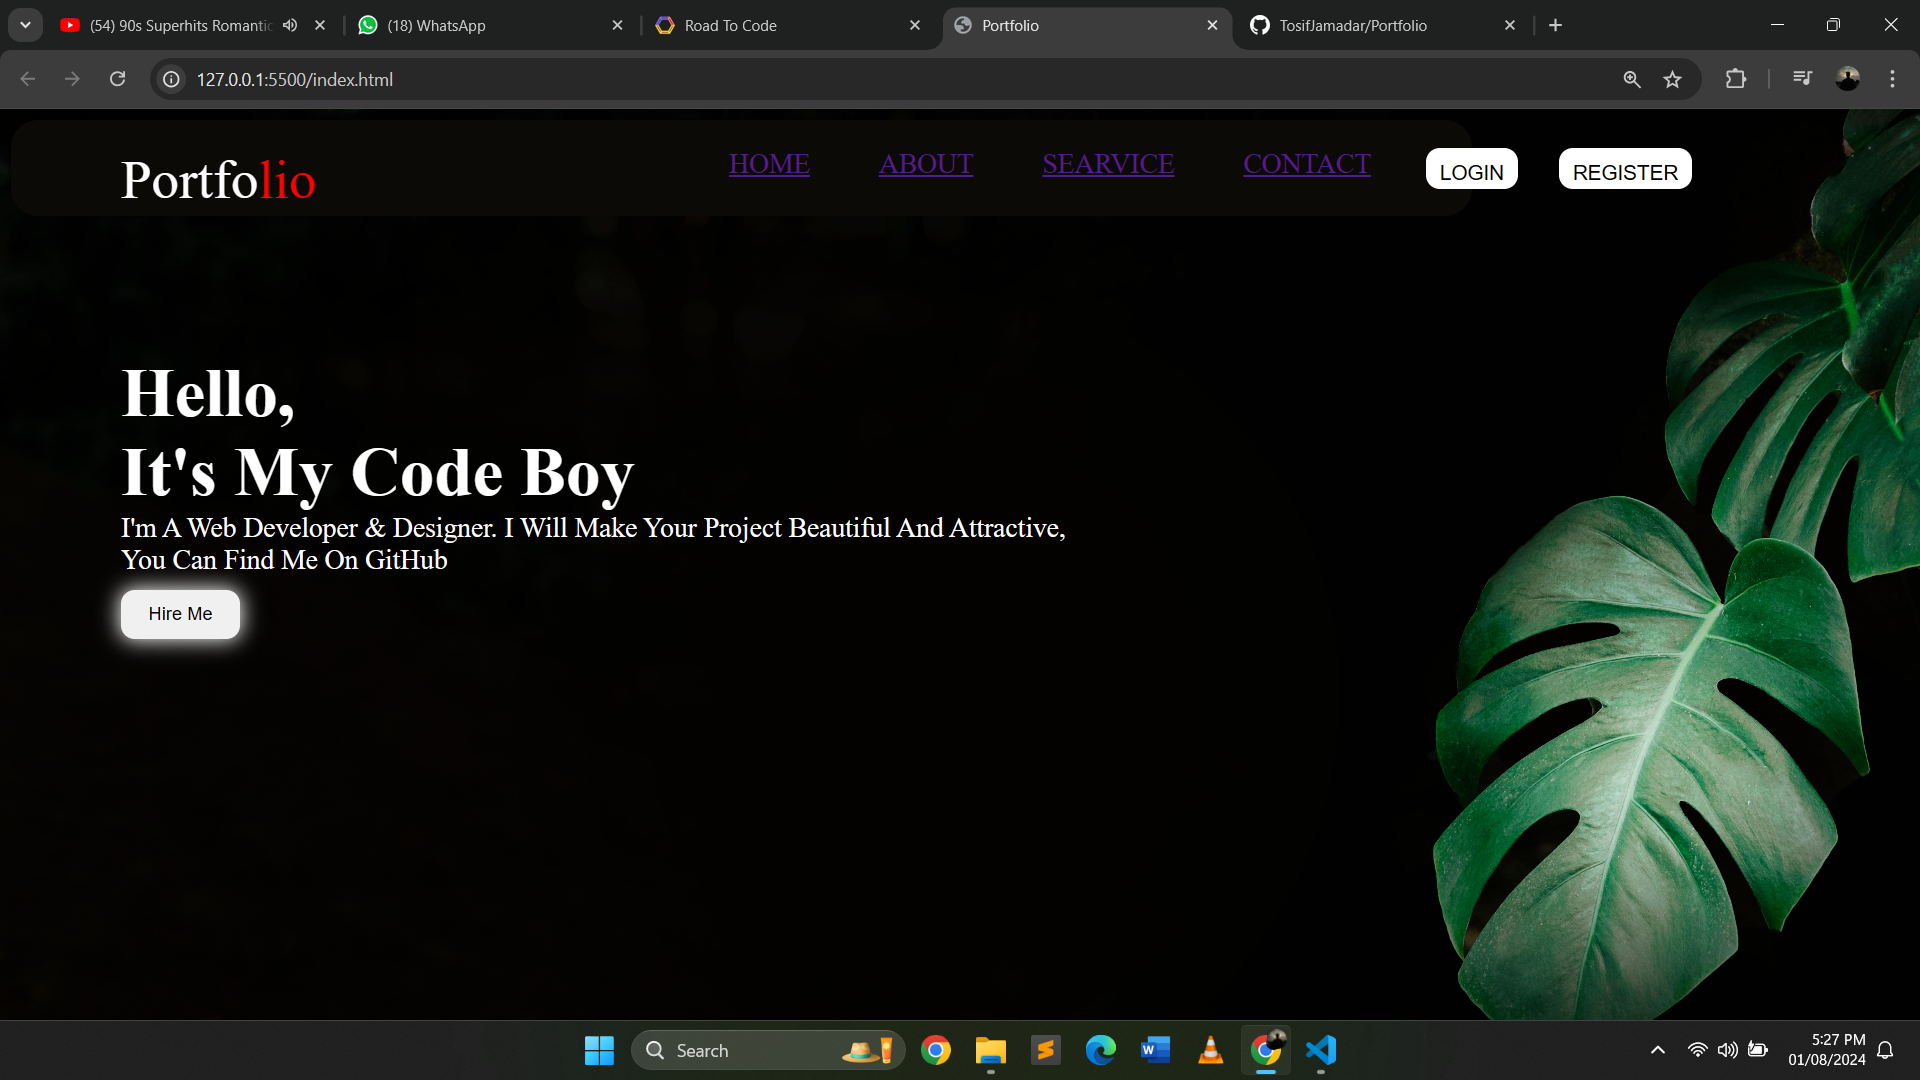
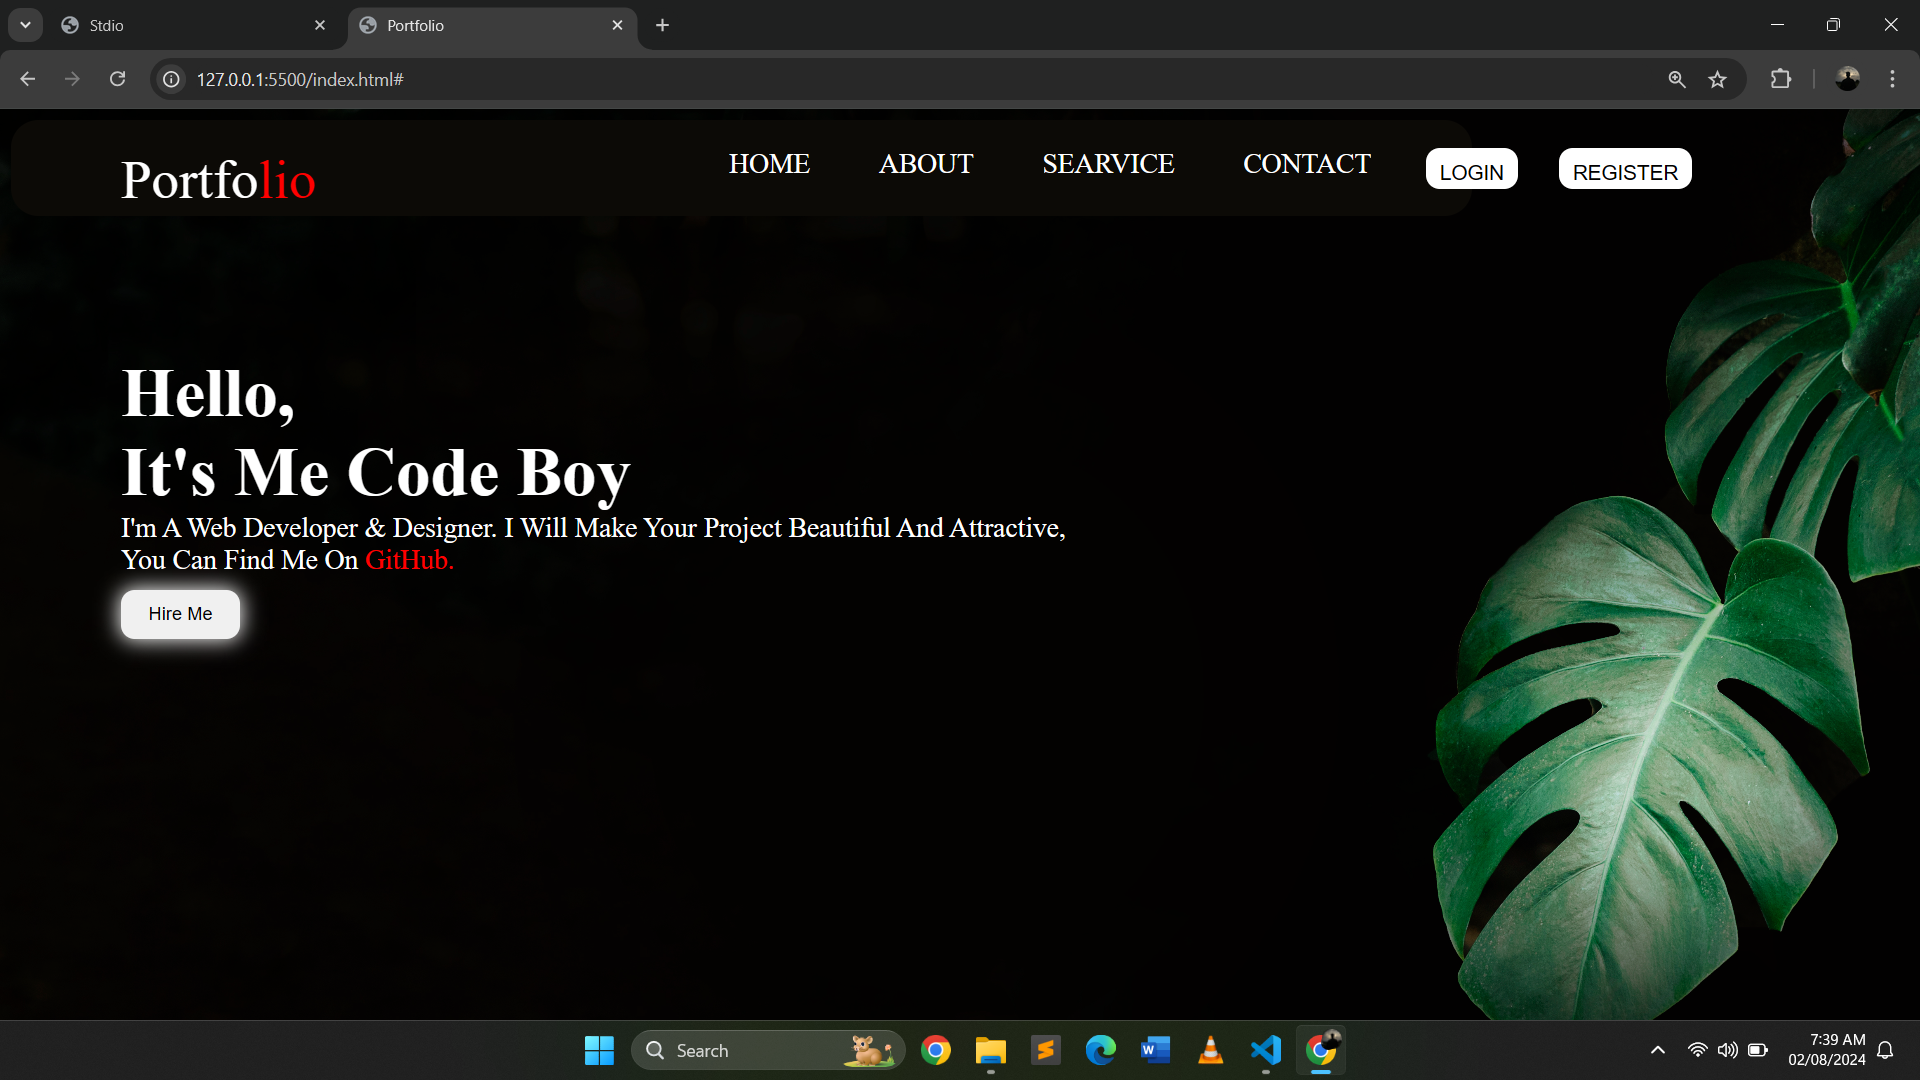
modify nav bar

diff --git a/index.html b/index.html
@@ -80,6 +80,10 @@
         text-decoration: none;
         color: white;  
     }
+    a:hover{
+        color: red;
+        transition: 1s;
+    }
 </style>    
 </head>
 <body>
@@ -98,8 +102,8 @@
     </div>
     <div class="Container_2">
         <div class="para_1">
-            <h1>Hello, <br>It's My Code Boy</h1>
-            <p class="para">I'm A Web Developer & Designer. I Will Make Your Project Beautiful And Attractive, You Can Find Me On GitHub</p>
+            <h1>Hello, <br>It's Me Code Boy</h1>
+            <p class="para">I'm A Web Developer & Designer. I Will Make Your Project Beautiful And Attractive, You Can Find Me On <span style="color: red;">GitHub.</span></p>
             <button class="btn">Hire Me</button>
         </div>
     </div>
